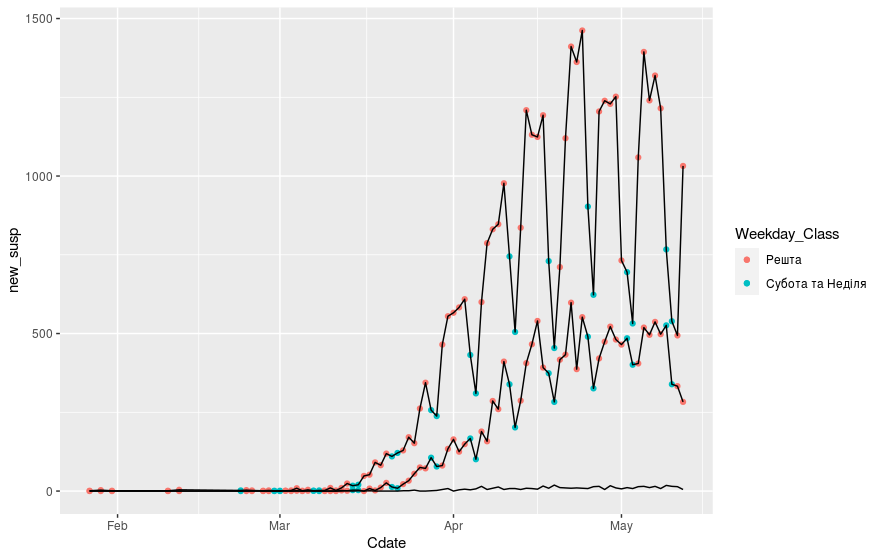
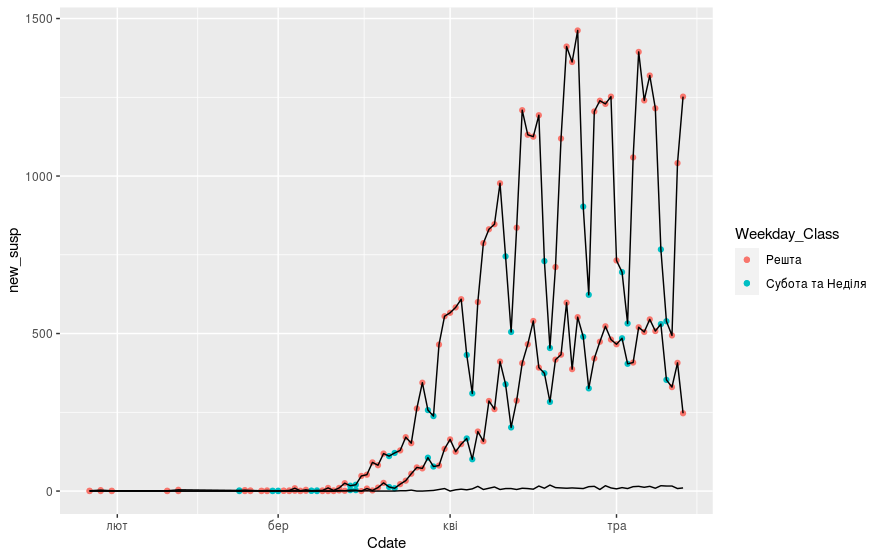
додано графіки по областях
- локалізовано перші графіки
 - графік по областях генерується в Rmd документі
 - тексти програм тепер в каталозі src
 - текст нових сторінок генерується rmarkdown

diff --git a/docs/regions_dyn.md b/docs/regions_dyn.md
@@ -1,0 +1,66 @@
+Динаміка поширення коронавірусної інфекції по областях
+================
+
+Побудуємо графіки поширення коронавірусної інфекції по областях. Для цього скористаємось бібліотеками функцій `ggplot2` для створення графіків та `tidyverse` для підготовки даних.
+
+``` r
+library(ggplot2)
+library(tidyverse)
+```
+
+Якщо системні налаштування локалі не співпадають з бажаними, їх можна змінити навіть тоді, коли сеанс роботи в R розпочато, для цього знадобиться функція [`Sys.setlocale`](https://www.rdocumentation.org/packages/base/versions/3.6.2/topics/locales):
+
+``` r
+Sys.setlocale(category="LC_ALL",locale="uk_UA.utf8" )
+```
+
+    ## [1] "LC_CTYPE=uk_UA.utf8;LC_NUMERIC=C;LC_TIME=uk_UA.utf8;LC_COLLATE=uk_UA.utf8;LC_MONETARY=uk_UA.utf8;LC_MESSAGES=en_US.UTF-8;LC_PAPER=en_US.UTF-8;LC_NAME=C;LC_ADDRESS=C;LC_TELEPHONE=C;LC_MEASUREMENT=en_US.UTF-8;LC_IDENTIFICATION=C"
+
+Тепер вже можна починати роботу. Зчитаємо дані спочатку в таблицю, а потім перетворимо її на фрейм даних для подальшої обробки.
+
+``` r
+area_dyn_csv <- read.csv('../covid19_by_area_type_hosp_dynamics.csv')
+area_dyn <- as.data.frame(area_dyn_csv)
+```
+
+Таблиця в файлі `covid19_by_area_type_hosp_dynamics.csv` має доволі велику кількість стовпчиків, перелічемо їх для зручності подальшого використання в скрипті:
+
+zvit\_date, registration\_area, priority\_hosp\_area, edrpou\_hosp, legal\_entity\_name\_hosp, legal\_entity\_lat, legal\_entity\_lng, person\_gender, person\_age\_group, add\_conditions, is\_medical\_worker, new\_susp, new\_confirm, active\_confirm, new\_death, new\_recover.
+
+Зараз нам цікаві лише кілька:
+
+-   `zvit_date`, дата
+-   `registration_area`, назва області або місто Київ
+-   `new_susp`, кількість підозр зареєстрованих протягом цього дня
+-   `new_confirm`, кількість підтверджених випадків захворювання протягом дня
+-   `new_death`, кількість зареєстрованих смертей протягом дня
+
+Наступним кроком підрахуємо сумарні значення цікавих нам показників, що припадають на певний регіон протягом доби. Бібліотека `tidyverse` дає можливість зробити це функціями, що ззовні нагадують відповідні конструкції в SQL:
+
+``` r
+daily_area_reg_dyn <- area_dyn %>%
+    select(zvit_date, registration_area, new_susp, new_confirm, new_death) %>%
+    group_by(zvit_date, registration_area) %>%
+    summarise(new_susp = sum(new_susp),
+              new_confirm = sum(new_confirm),
+              new_death = sum(new_death))
+```
+
+Поки що дані про дати були представлені в форматі звичайних текстових рядків. Аби система могла нормально працювати з ними, їх слід перетворити у внутрішнє представлення. [Основними](https://www.rdocumentation.org/packages/base/versions/3.6.2/topics/DateTimeClasses) класами для представлення часу та дат в R є `POSIXct` та `POSIXlt`. Однак, для зручнішої роботи з датами (календарними днями) є клас [`Date`](https://www.rdocumentation.org/packages/base/versions/3.6.2/topics/Dates). Його внутрішнє представлення --- ціле число, що дорівнює кількості днів, що минули від першого січня 1970 року до вказаної дати.
+
+Аби перетворити рядок з текстом дати на об'єкт класу `Date` служить функція [`as.Date`](https://www.rdocumentation.org/packages/base/versions/3.6.2/topics/as.Date). Передамо як аргументи власне рядок з датою, та рядок, що описує формат, в якому цю дату записано:
+
+``` r
+daily_area_reg_dyn <- mutate(daily_area_reg_dyn, Cdate = as.Date(zvit_date, "%Y-%m-%d"))
+```
+
+Нарешті, побудуємо графік.
+
+``` r
+(ggplot(daily_area_reg_dyn, aes(x=Cdate, y=new_susp))
+    + geom_line()
+    + facet_wrap(vars(registration_area), ncol = 4)
+    + theme_light())
+```
+
+<img src="figures/daily_area_regions_dyn_susp-1.png" width="672" />

diff --git a/docs/index.md b/docs/index.md
@@ -6,8 +6,11 @@
 Досліди не претендують на наукову повноту та є простими експериментами
 з використання пакету програм R для аналізу статистичних даних.
 
-Дивіться [charts_ua.R](charts_ua.R).
+Дивіться [charts_ua.R](charts_ua.R) з текстом програми, якою було
+побудовано ці графіки.
 
 ![Графік загальної статистики поширення коронавірусу](daily_area_dyn.png "Загальні дані")
 ![Інший метод побудови графіку з декількома змінними](daily_area_gath.png "Загальні дані")
 ![Модель Хольта-Вінтерса та прогноз на 14 днів](holt-winters_14days_forecast-2020-05-12.png "title")
+
+ - [Динаміка поширення коронавірусної інфекції по областях](regions_dyn.html)
